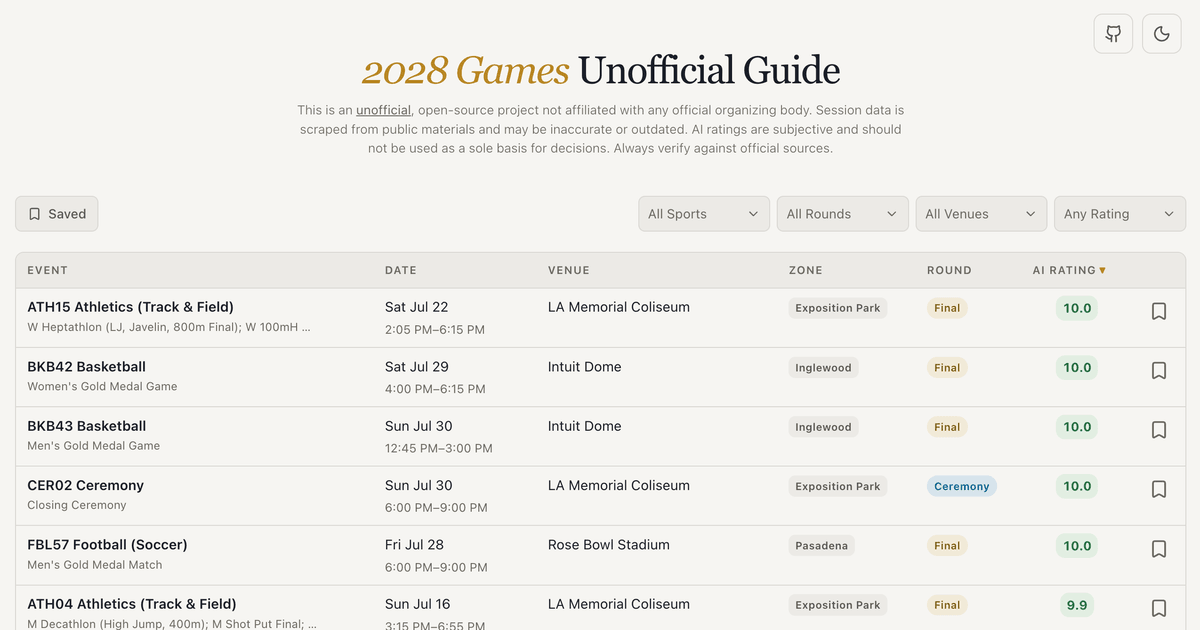
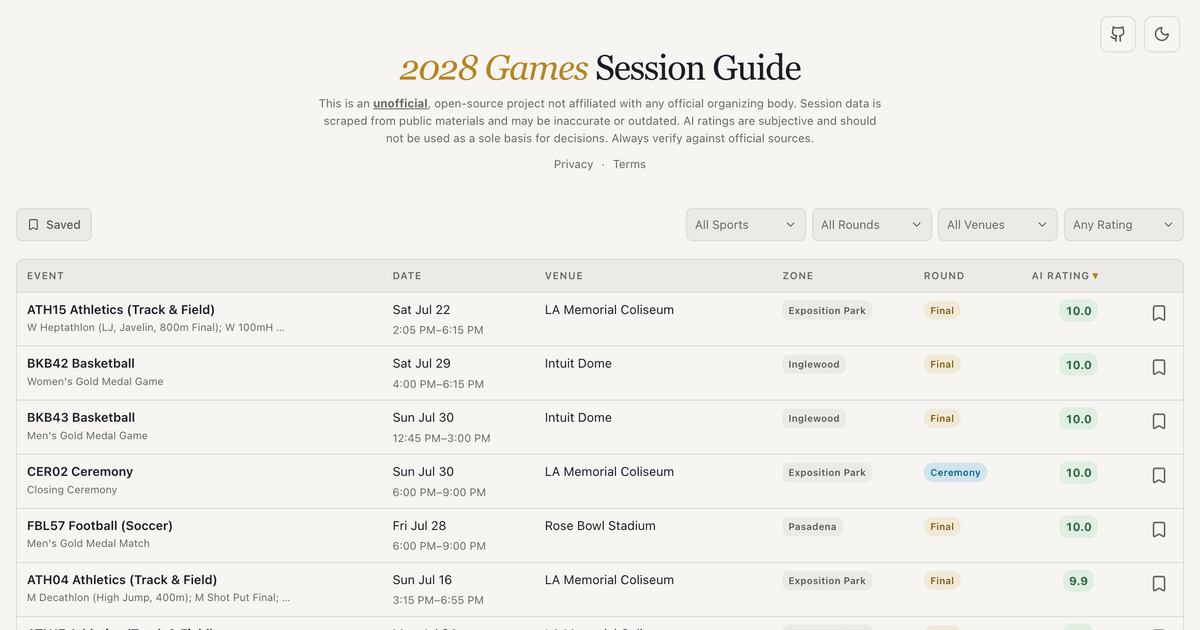
feat: rename the site to 2028 Games Session Guide
The heading, page titles, manifest, README, license and legal pages use the new name. The site description, share image alt text and privacy and terms pages say explicitly that it's an unofficial guide, alongside the existing disclaimers. The README screenshot and share image are retaken with the new heading. The screenshot is also palette-compressed, from 393 KB to 93 KB.

diff --git a/src/lib/seo.ts b/src/lib/seo.ts
@@ -2,9 +2,9 @@ import { fmtTime } from '@/lib/format'
 import type { Session } from '@/types/session'
 
 export const SITE_URL = 'https://28games.tompiarulli.com'
-export const SITE_NAME = '2028 Games Unofficial Guide'
+export const SITE_NAME = '2028 Games Session Guide'
 export const SITE_DESCRIPTION =
-  'Browse all 800+ sessions of the 2028 Summer Games in Los Angeles by sport, venue, and date, with AI ratings and summaries to help you choose tickets.'
+  'An unofficial guide to all 800+ sessions of the 2028 Summer Games in Los Angeles. Browse by sport, venue, and date, with AI ratings and summaries to help you choose tickets.'
 export const OG_IMAGE = { path: '/og-image.png', width: 1200, height: 630 }
 
 const MAX_TITLE_DETAIL_LENGTH = 60

diff --git a/src/routes/terms.tsx b/src/routes/terms.tsx
@@ -24,9 +24,9 @@ function TermsPage() {
         <section>
           <h2 className="font-display mt-6 mb-2 text-lg">Unofficial project</h2>
           <p>
-            2028 Games Unofficial Guide is an open-source tool and is not affiliated with, endorsed
-            by, or sponsored by any official games organizing body. All trademarks are the property
-            of their respective owners.
+            2028 Games Session Guide is an unofficial, open-source tool and is not affiliated with,
+            endorsed by, or sponsored by any official games organizing body. All trademarks are the
+            property of their respective owners.
           </p>
         </section>
 

diff --git a/src/routes/__root.tsx b/src/routes/__root.tsx
@@ -43,7 +43,7 @@ export const Route = createRootRouteWithContext<{ queryClient: QueryClient }>()(
       { property: 'og:image', content: `${SITE_URL}${OG_IMAGE.path}` },
       { property: 'og:image:width', content: String(OG_IMAGE.width) },
       { property: 'og:image:height', content: String(OG_IMAGE.height) },
-      { property: 'og:image:alt', content: `${SITE_NAME}: the session browser` },
+      { property: 'og:image:alt', content: `${SITE_NAME}, an unofficial session browser` },
       // X falls back to the og: tags for title, description and image.
       { name: 'twitter:card', content: 'summary_large_image' },
     ],

diff --git a/src/routes/privacy.tsx b/src/routes/privacy.tsx
@@ -22,9 +22,9 @@ function PrivacyPage() {
 
       <div className="text-ink2 space-y-5 text-sm leading-relaxed">
         <p>
-          2028 Games Unofficial Guide is an open-source project. We try to collect as little
-          information as possible. This page describes what we do collect and the third parties that
-          process it.
+          2028 Games Session Guide is an unofficial, open-source project. We try to collect as
+          little information as possible. This page describes what we do collect and the third
+          parties that process it.
         </p>
 
         <section>

diff --git a/src/components/Nav.tsx b/src/components/Nav.tsx
@@ -39,7 +39,7 @@ export function Nav() {
       </a>
       <ThemeToggle />
       <h1 className="font-display relative mb-1.5 text-[2.2rem] leading-[1.1] font-normal -tracking-[0.03em] max-md:text-[1.6rem]">
-        <em className="text-gold italic">2028 Games</em> Unofficial Guide
+        <em className="text-gold italic">2028 Games</em> Session Guide
       </h1>
       <p className="text-ink3 relative mx-auto mt-2 max-w-[600px] text-[0.72rem] leading-normal font-normal max-md:px-2">
         This is an{' '}

diff --git a/README.md b/README.md
@@ -1,8 +1,8 @@
-![2028 Games Unofficial Session Guide screenshot](screenshot.png)
+![2028 Games Session Guide screenshot](screenshot.png)
 
 > **Disclaimer:** This is an unofficial, open-source project and is not affiliated with, endorsed by, or connected to any official games organizing body. Session data is scraped from publicly available schedules and materials and may be inaccurate, incomplete, or outdated. Always verify details against official sources before making any plans or purchasing decisions. Use at your own risk.
 
-# 2028 Games Unofficial Session Guide
+# 2028 Games Session Guide
 
 **Live site: [28games.tompiarulli.com](https://28games.tompiarulli.com)**
 
